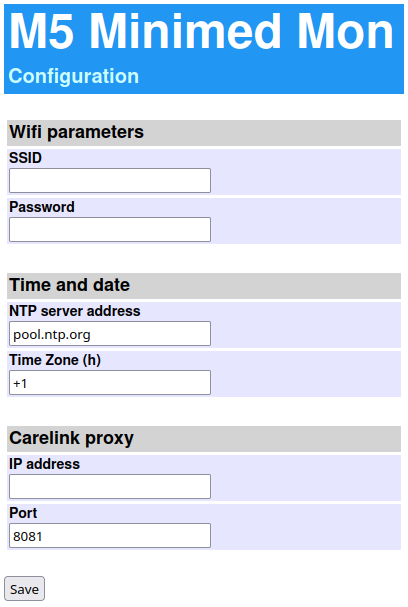
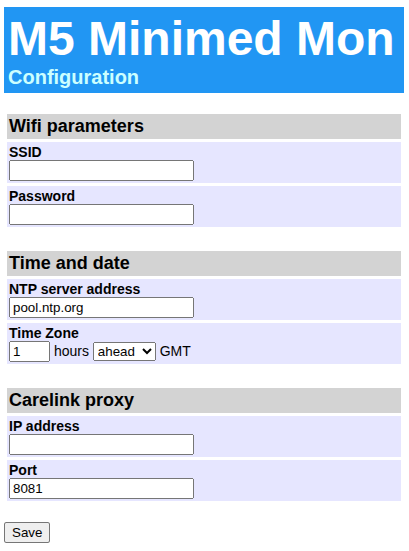
Update README after porting the code base to UIFlow2

Changed region(s): [[0.0, 0.0, 1.0, 0.6788], [0.0, 0.7096, 1.0, 1.0]]

diff --git a/README.md b/README.md
@@ -1,5 +1,5 @@
-# M5Stack Minimed Monitor
-This is an application for the [M5Stack Core2](https://shop.m5stack.com/collections/m5-core/products/m5stack-core2-esp32-iot-development-kit?variant=35960244109476) device. It implements a remote monitor for the Medtronic [Minimed 770G/780G](https://www.medtronicdiabetes.com/products/minimed-770g-insulin-pump-system)  insulin pump system to be used by caregivers of a Type-1 Diabetes patient wearing the pump.
+# M5 Minimed Monitor
+This is an application for the [M5Stack](https://m5stack.com) [Core2](https://docs.m5stack.com/en/core/core2), [CoreS3-Lite](https://docs.m5stack.com/en/core/CoreS3-Lite) and [CoreS3-SE](https://docs.m5stack.com/en/core/M5CoreS3%20SE) devices. It implements a remote monitor for the Medtronic [Minimed 770G/780G](https://www.minimed.com/en-us/products/minimed-780g-insulin-pump-system) insulin pump system to be used by caregivers of a Type-1 Diabetes patient wearing the pump.
 
 Fits in nicely on your bedside table or on a shelf in the living room and lets you see all important pump and sensor data at a glance whenever you need it.
 
@@ -17,7 +17,7 @@ The data acquired by the insulin pump is transmitted periodically to the patient
 
 The *M5Stack Minimed Monitor* replaces the last piece in this communication chain. So it interfaces with the Carelink Cloud REST API (2) to receive the patients data and displays it on the M5Stack Core2s screen. It can be used in addition to the phone with *Carelink Connect* app.
 
-Since the M5Stack Core2 device has built-in Bluetooth capability, it is theoretically possible to pull the data directly from the pump via the BLE link (1). But the communication protocol for this is yet unknown and there is no open implementation for it.
+Since the M5Stack Core2/3 devices have built-in Bluetooth capability, it is theoretically possible to pull the data directly from the pump via the BLE link (1). But the communication protocol for this is not publicly available. Although there are ongoing efforts for an open implementation of the protocol in the [OpenMinimed](https://github.com/OpenMinimed) project.
 
 
 
@@ -25,7 +25,7 @@ Since the M5Stack Core2 device has built-in Bluetooth capability, it is theoreti
 
 ## Features
 
-The *M5Stack Minimed Monitor* basically implements a clone of the Minimed 770G/780G insulin pump monitor screen (plus some additional info). It reports the following status information in real time:
+The *M5 Minimed Monitor* basically implements a clone of the Minimed 770G/780G insulin pump monitor screen (plus some additional info). It reports the following status information in real time:
 
 * Latest glucose level and trend
 
@@ -35,19 +35,21 @@ The *M5Stack Minimed Monitor* basically implements a clone of the Minimed 770G/7
 
 * Sensor connection state
 
-* Time to next calibration
+* Time to next calibration (G3 sensor only)
 
 * Sensor age
 
 * Active insulin
 
-* Pump banner state
+* Pump banner state (if any)
+
+* System status message (if any)
 
   
 
 A second screen displays the "Time in range" statistics. 
 
-A third screen will display the glucose data history graph (to do).
+A third screen displays the system configuration.
 
 
 
@@ -55,39 +57,29 @@ Other features:
 
 * Pump alarm handling (with sound and text notification)
 * Device configuration via Wifi AP
+* Wifi signal strength icon
 
 
 
 ## Project Status
 
-This is a developer version, with some pieces still under construction. However I am using it on a daily basis and the functionality already implemented works reliably for me. The device runs for days and weeks without issues, reporting continuously all available data from the pump.
+This application has been running stable on my Core2 device for some years now. I am using it on a daily basis and the functionality implemented works reliably for me. The device runs for days and weeks without issues, reporting continuously all available data from the pump. It works with G3, G4 and Simplera sensors which are paired with the pump.
 
-The main drawback, at the moment, is that the [Carelink Python Client](https://github.com/ondrej1024/carelink-python-client), which is responsible for downloading the Minimed pump and sensor data from the Carelink Cloud server, is not yet integrated into the Core2 device as this requires a porting of the client code to Micro Python. Therefore I have an external [carelink_client_proxy](https://github.com/ondrej1024/carelink-python-client/blob/main/carelink_client_proxy.py) running on a separate device which is on 24h a day and provides the data to the Core2 in the LAN via a very simple REST API. While setting this up should not be a big deal for experienced developers, I understand that it is not really "user friendly". And it prevents you from taking the monitoring device with you when travelling (well, you can do it but it will obviously not work). 
+As a dependency, *M5 Minimed Monitor* needs the [Carelink Python Client](https://github.com/ondrej1024/carelink-python-client), which is responsible for downloading periodically the Minimed pump and sensor data from the Carelink Cloud server. It is not integrated into the Core2 device as this requires a porting of the client code to MicroPython. Therefore I have an external [carelink_client_proxy](https://github.com/ondrej1024/carelink-python-client#using-the-proxy-tool) running on a separate device which is on 24h a day and provides the data to the Core2 in the LAN via a very simple REST API. While setting this up should not be a big deal for experienced developers, I understand that it is not really "user friendly". And it prevents you from taking the monitoring device with you when traveling (well, you can do it but it will obviously not work). 
 
 Any contributions are welcome to overcome these shortcomings.
 
 
 
-## Todo list
-
-* History graph for recent glucose data
-* Integration of Carelink client (maybe)
-
-
-
 ## Installation
 
-The *M5Stack Minimed Monitor* is a Micro Python application. Therefore you need to install Micro Python support on the Core2. This is done by flashing the UIFLOW (Core2) firmware using the M5Burner application. For details see the [M5Stack documentation](https://docs.m5stack.com/en/quick_start/m5core/uiflow) (chapter "Firmware burning").
+The *M5 Minimed Monitor* is a MicroPython application. Therefore you need to install MicroPython support on the Core2. This is done by flashing the [UIFlow2 firmware](https://github.com/m5stack/uiflow-micropython) for your device using the M5Burner application. For details see the [M5Stack documentation](https://docs.m5stack.com/en/uiflow2/m5core2/program).
 
-**Note**: don't use any UIFLOW firmware version newer than 1.9.7 as some fonts which *M5Stack Minimed Monitor* needs have been removed in the later versions.
+Then you can load and run the application  `minimed-mon.py`  on the Core2 using your favorite Python editor with MicroPython support. I have made good experience with the [Thonny editor](https://thonny.org). But [VS Code](https://code.visualstudio.com) with the M5Stack plugin should also work. For the experts, use the CLI tool [mpremote](https://docs.micropython.org/en/latest/reference/mpremote.html) 
 
-After booting the device with the UIFLOW firmware you have to select "USB mode" from the "Flow" menu.
+Note that you also have to transfer the `res/` folder containing all the needed image and audio files to the Core2 flash memory.
 
-Then you can load and run the application  `minimed-mon.py`  on the Core2 using your favorite Python editor with Micro Python support. I have made good experience with the [Thonny editor](https://thonny.org). But [VS Code](https://code.visualstudio.com) with the M5Stack plugin should also work. 
-
-Note that you also have to transfer the `res/` folder containing all the needed image files to the Core2 flash memory.
-
-To run the application automatically at startup, place the Python file `minimed-mon.py` in the `apps/` folder of the Core2 flash memory. On the next restart of the Core2 choose this file from the "App" menu and choose "Run". You might have to reset the Core2 after that.
+To run the application automatically at startup, place the Python file `minimed-mon.py` in the root of the Core2 flash memory and rename it to `main.py`. On the next restart of the Core2 the program will be launched.
 
 
 
@@ -105,9 +97,9 @@ When starting the *M5 Minimed Monitor* for the first time (or if Wifi connection
 
 
 
-Once you have finished the configuration, it will be saved on the Core2s flash memory and the *M5 Minimed Monitor* will reboot. If everything went well, it starts displaying the pump data after reboot.
+Once you have finished the configuration, it will be saved on the Core2s EEPROM memory and the *M5 Minimed Monitor* will reboot. If everything went well, it starts displaying the pump data after reboot.
 
-The active configuration data can be displayed on screen #3 of the Core2, accessible via its bottom right button. On the same screen the configuration can be reset via the "Reset config" button. This will clear the configuration parameters on the flash memory and restart the Core2 in configuration mode.
+The active configuration data can be displayed on screen #3 of the Core2, accessible via its bottom right button. On the same screen, the configuration can be reset via the trashcan icon. This will clear the configuration parameters on the EEPROM memory and restart the Core2 in configuration mode.
 
 
 
@@ -136,5 +128,4 @@ proxyport = 8081
 
 ## Disclaimer
 
-This project is not associated to or endorsed by [Medtronic](https://www.medtronicdiabetes.com). If you decide to use the *M5Stack Minimed Monitor* then you do this entirely at your own risk. I am not reliable for any damage it might cause. 
-
+This project is not associated to or endorsed by [Medtronic](https://www.medtronicdiabetes.com). If you decide to use the *M5 Minimed Monitor* then you do this entirely at your own risk. I am not reliable for any damage it might cause. 
